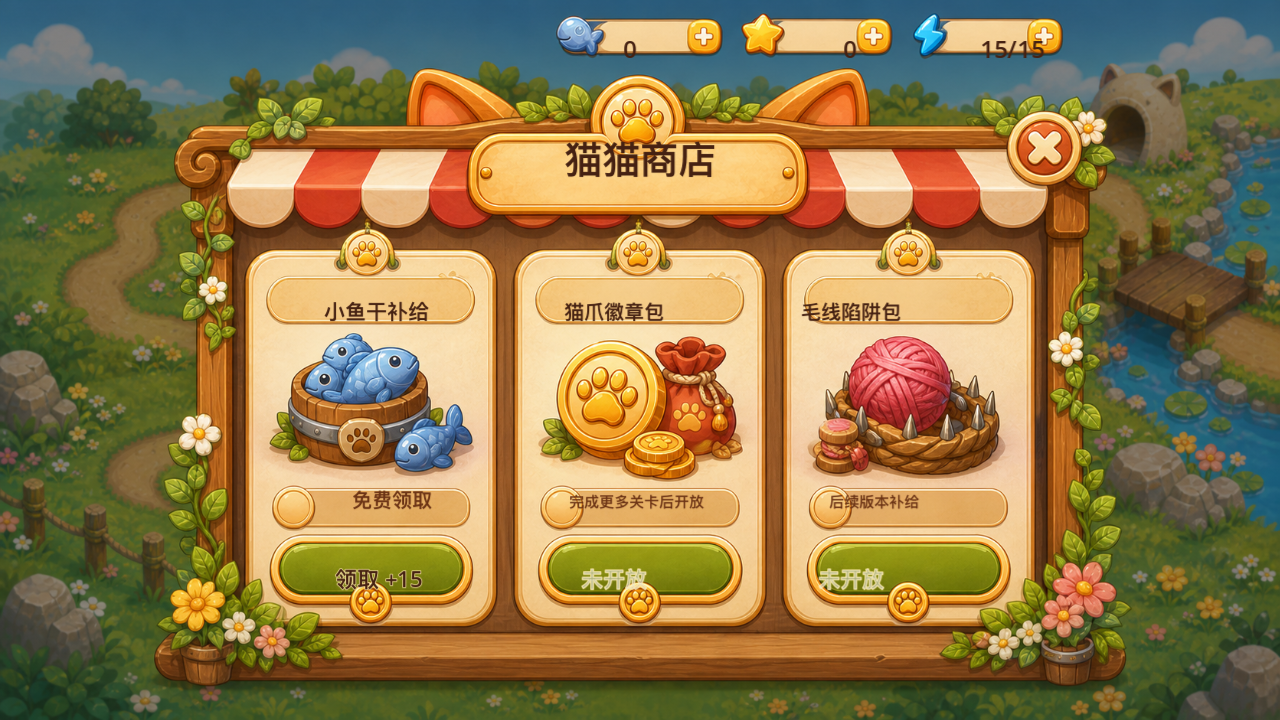
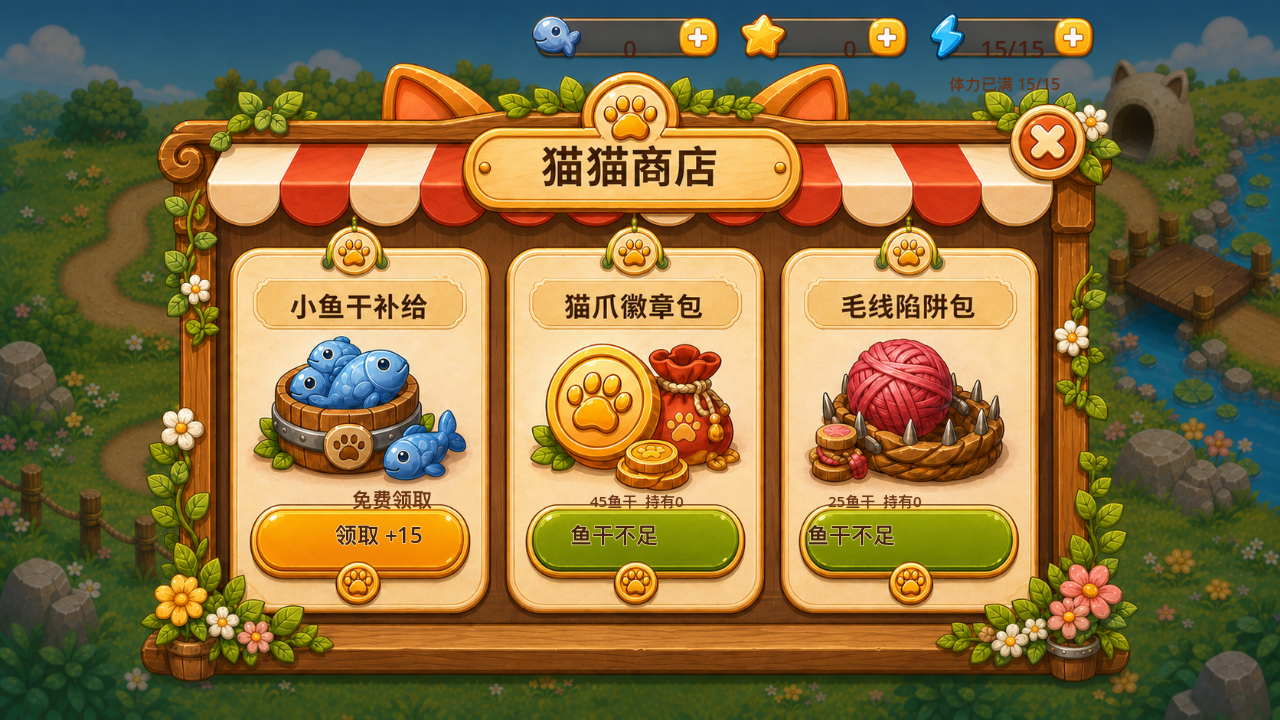
Refresh shop buyable design

diff --git a/design-qa.md b/design-qa.md
@@ -245,17 +245,24 @@ final result: passed
 - Updated `/Users/zhaok/cat/tests/capture_achievement_claimed.gd` to wait for animation frames and regenerate `/Users/zhaok/cat/artifacts/achievements_claimed_overlay.png`, which now captures the reward feedback overlay.
 - Verified the new reward screenshot visually, passed the targeted achievement/town/backpack/reward checks, and passed the full `tests/run_*.gd` regression suite with 44 clean Godot tests.
 
+**Shop Buyable Product Design**
+- Generated `/Users/zhaok/cat/assets/generated/ui/shop_overlay_buyable_design_reference.png` as the updated full-screen Image2 shop design where the paw bundle and yarn trap kit are visible buyable products instead of locked placeholders.
+- The new shop design keeps resource counters and button labels blank so Godot can render live fish/star/energy counts, affordability, and purchase state without fighting baked text.
+- `ShopOverlay` now uses `ShopDesignBackground` from the buyable design, and removed duplicate runtime title/product labels and duplicate item icons that were already part of the Image2 background.
+- Added `/Users/zhaok/cat/tests/run_shop_buyable_design_tests.gd` to verify the new design path, manifest entry, no duplicate runtime art/title overlays, and button text placement on the Image2 button plates.
+- Regenerated `/Users/zhaok/cat/artifacts/shop_overlay.png` and verified the buyable shop screen visually.
+
 **Shop Yarn Trap Purchase**
-- Generated `/Users/zhaok/cat/assets/generated/ui/yarn_trap_item_icon.png` as a transparent Image2 yarn trap item icon for the shop inventory flow.
+- Generated `/Users/zhaok/cat/assets/generated/ui/yarn_trap_item_icon.png` as a transparent Image2 yarn trap item icon for backpack and battle consumable flows.
 - Converted the shop's yarn trap product from a locked placeholder into a purchasable 25-fish item that increments `_yarn_traps`, updates the fish counter, persists through saves, and appears in the backpack count.
-- Kept the shop and backpack full-screen Image2 designs as the visual base, adding only dynamic labels, the small Image2 item badge, and transparent hit areas.
+- Kept the shop and backpack full-screen Image2 designs as the visual base, adding only dynamic labels and transparent hit areas over the generated product art.
 - Added `/Users/zhaok/cat/tests/run_shop_yarn_trap_tests.gd` to verify purchase, cost, inventory count, persistence, and backpack display.
 - Added `/Users/zhaok/cat/tests/capture_shop_yarn_trap.gd` to regenerate `/Users/zhaok/cat/artifacts/shop_yarn_trap_purchase.png` and `/Users/zhaok/cat/artifacts/backpack_yarn_trap_item.png`.
 
 **Shop Paw Bundle Purchase**
-- Reused `/Users/zhaok/cat/assets/generated/ui/album_paw_badge.png` as the Image2 item badge for the shop paw bundle.
+- Reused `/Users/zhaok/cat/assets/generated/ui/album_paw_badge.png` as Image2 badge art for backpack and achievement-related surfaces; the shop paw bundle product art now comes from the buyable shop design.
 - Converted the shop's paw bundle product from a locked placeholder into a purchasable 45-fish item that grants 2 `_paw_tokens`, updates the fish counter, persists through saves, and appears in the backpack badge count.
-- Kept the shop and backpack full-screen Image2 designs as the visual base, adding only dynamic labels, the small Image2 item badge, and transparent hit areas.
+- Kept the shop and backpack full-screen Image2 designs as the visual base, adding only dynamic labels and transparent hit areas over the generated product art.
 - Added `/Users/zhaok/cat/tests/run_shop_paw_bundle_tests.gd` to verify purchase, cost, badge count, persistence, and backpack display.
 - Added `/Users/zhaok/cat/tests/capture_shop_paw_bundle.gd` to regenerate `/Users/zhaok/cat/artifacts/shop_paw_bundle_purchase.png`.
 